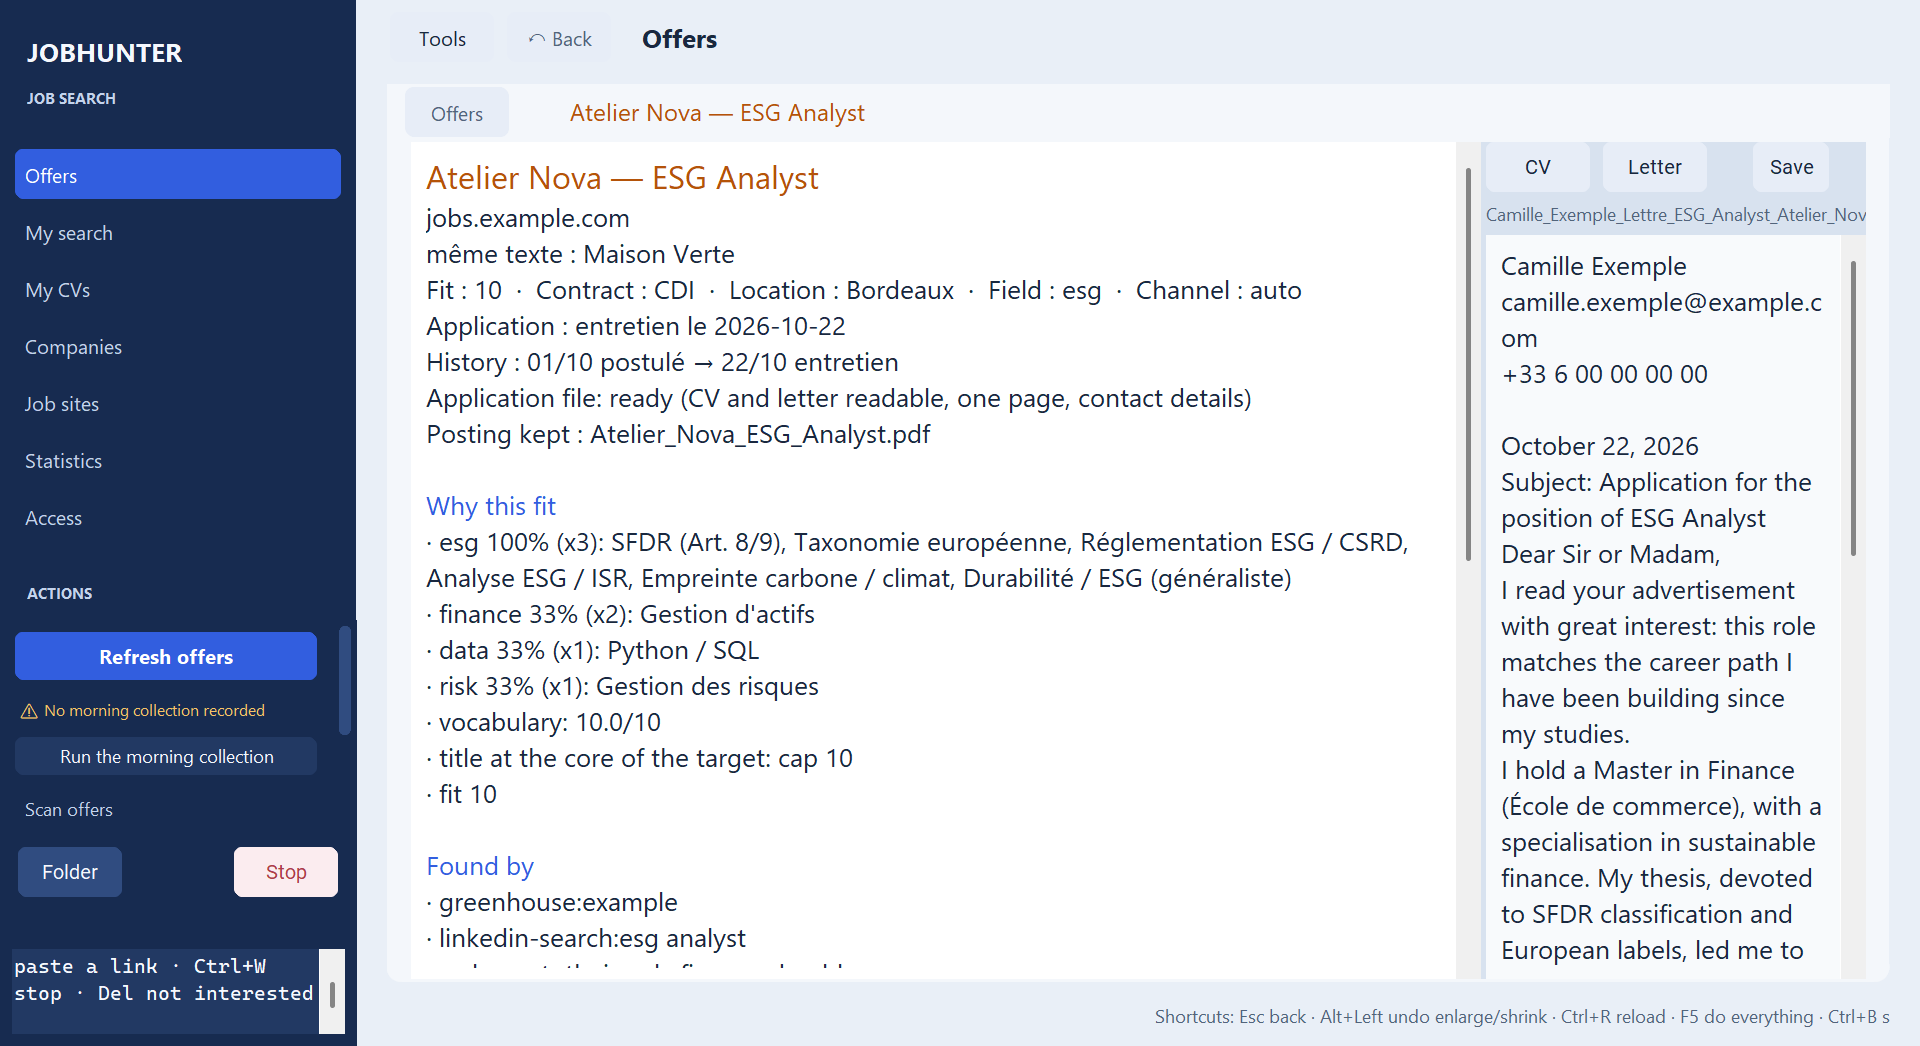
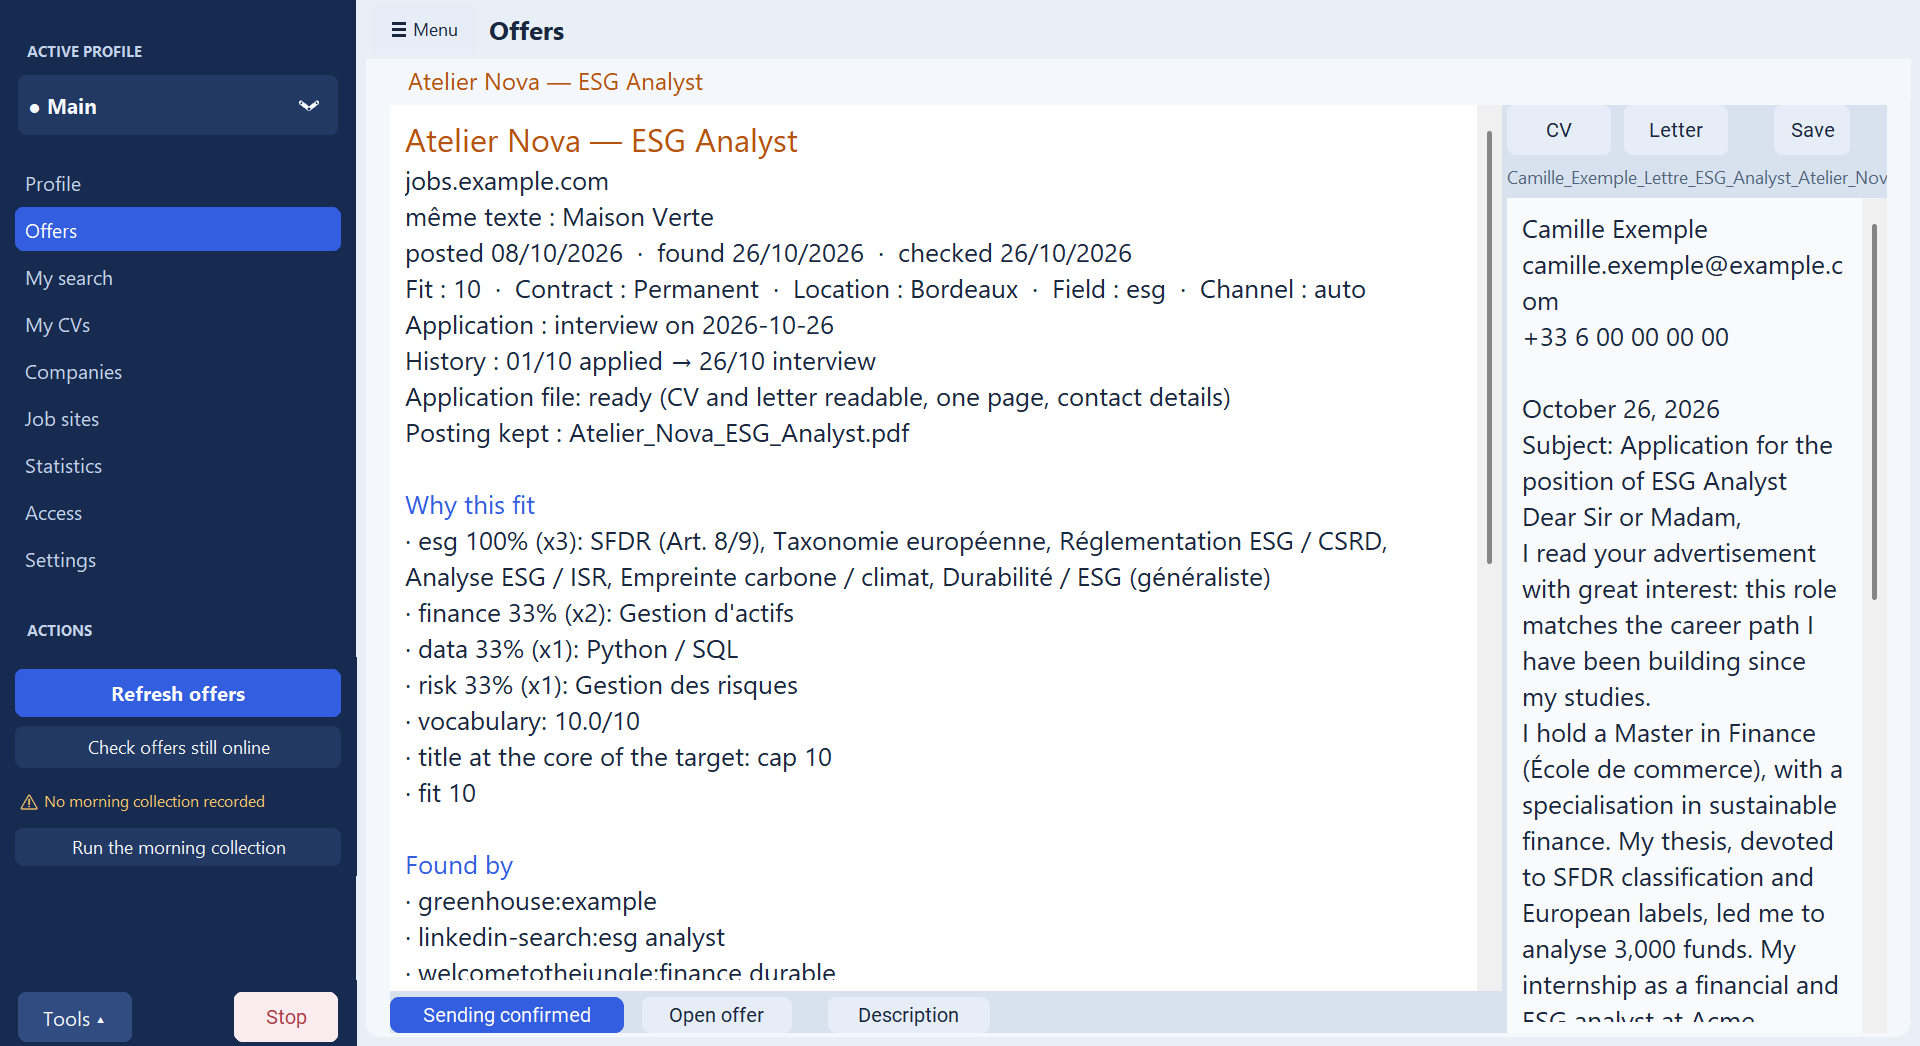
README: screenshots refreshed, the web interface shown in light and dark
tools/screenshots.py also captures the web interface: the page runs in
Playwright's headless Chromium and its calls go to the real Api on the same
fictitious folder, so nothing of the screen behind can be captured. The
desktop screenshots are rebuilt with the current app (3.27).

diff --git a/tools/screenshots.py b/tools/screenshots.py
@@ -9,7 +9,11 @@ chosen language and captures the window:
 
 - `offers.png`: the ranked offers, the first one selected (an application with its
   status history and its kept posting; one offer with a knock-out ⚠);
-- `letter.png`: an offer opened in full, its letter on the right.
+- `letter.png`: an offer opened in full, its letter on the right;
+- `web_home.png`, `web_offers_dark.png`: the web interface (3.27), its home screen in
+  light mode and its offers in dark mode. The page runs in Playwright's Chromium, its
+  calls answered by the real `jobhunter.web.api.Api` on the same fictitious folder:
+  nothing of the screen behind is captured.
 
 Nothing of the user's own data is read: the folder is created in a temporary
 directory and `JOBHUNTER_RACINE` points to it. Windows only (screen capture by PIL).
@@ -221,6 +225,52 @@ def capturer(racine: Path, langue: str, sortie: Path) -> None:
     root.destroy()
 
 
+# Stands in for pywebview: window.pywebview.api.<name>(...) goes to the Python Api.
+_PONT = """
+window.pywebview = { api: new Proxy({}, { get: (_, nom) => (...args) => window.__jh(nom, args) }) };
+"""
+
+
+def capturer_web(racine: Path, sortie: Path) -> None:
+    """The web interface's two screenshots, rendered headless (see the module's doc)."""
+    os.environ.update(JOBHUNTER_RACINE=str(racine))
+    os.environ.pop("JOBHUNTER_PRINCIPALE", None)
+    from playwright.sync_api import sync_playwright
+
+    from jobhunter.web.__main__ import STATIC
+    from jobhunter.web.api import Api
+
+    api = Api()
+
+    def pont(nom: str, args: list) -> object:
+        # JSON round trip: what pywebview would hand the page.
+        return json.loads(json.dumps(getattr(api, nom)(*args), default=str))
+
+    with sync_playwright() as p:
+        nav = p.chromium.launch()
+        page = nav.new_page(viewport={"width": 1440, "height": 900})
+        page.expose_function("__jh", pont)
+        page.add_init_script(_PONT)
+        page.goto((STATIC / "index.html").as_uri())
+        page.wait_for_timeout(1500)
+        # No see-through window here: the page paints its own background.
+        page.evaluate("document.body.classList.remove('natif')")
+
+        def photo(nom: str, mode: str, ecran: str) -> None:
+            page.evaluate(
+                f"(async () => {{ modeAffiche = '{mode}'; appliquerMode();"
+                f" await aller('{ecran}'); }})()"
+            )
+            page.wait_for_timeout(1200)
+            page.evaluate("window.scrollTo(0, 0)")  # a focused field may scroll it
+            page.screenshot(path=str(sortie / nom))
+            print("  ", sortie / nom)
+
+        photo("web_home.png", "clair", "accueil")
+        photo("web_offers_dark.png", "sombre", "offres")
+        nav.close()
+
+
 def main() -> int:
     a = argparse.ArgumentParser(description=__doc__.split("\n")[0])
     a.add_argument("--lang", default="en", help="interface language: en, fr, de, es")
@@ -237,6 +287,7 @@ def main() -> int:
         jobhunter(racine, "documents", "--top", "1")
         jobhunter(racine, "reposts")  # the Signal column: knock-outs
         jobhunter(racine, "postings")  # the posting kept for the application
+        capturer_web(racine, sortie)
         capturer(racine, args.lang, sortie)
     finally:
         if args.garder:

diff --git a/README.fr.md b/README.fr.md
@@ -28,8 +28,10 @@ jamais de candidature.
 | Les offres, triées pour ton profil | La lettre préparée pour une offre |
 |---|---|
 | ![Liste des offres](docs/screenshots/offers.png) | ![Une offre en entier et sa lettre](docs/screenshots/letter.png) |
+| **La nouvelle interface : l'accueil** | **…et les offres, en mode sombre** |
+| ![Accueil de la nouvelle interface](docs/screenshots/web_home.png) | ![Offres de la nouvelle interface en mode sombre](docs/screenshots/web_offers_dark.png) |
 
-<sub>Captures de l'interface en anglais, avec un profil et des entreprises **fictifs** (Camille Exemple, junior en finance durable — `profile/example_finance_esg.json`), refaites par `python tools/screenshots.py`. L'application parle **français**, anglais, allemand et espagnol : Paramètres → Langue de l'interface.</sub>
+<sub>Captures de l'application classique en anglais et de la [nouvelle interface](#la-nouvelle-interface-aperçu-depuis-le-code-source) (en français pour l'instant), avec un profil et des entreprises **fictifs** (Camille Exemple, junior en finance durable — `profile/example_finance_esg.json`), refaites par `python tools/screenshots.py`. L'application parle **français**, anglais, allemand et espagnol : Paramètres → Langue de l'interface.</sub>
 
 - [Pourquoi](#pourquoi-jobhunter) · [Comment ça marche](#comment-ça-marche) · [Sources](#sources)
 - [Installer (Windows)](#installer-windows) · [Depuis le code source](#depuis-le-code-source-windows) · [macOS / Linux](#macos--linux)

diff --git a/README.md b/README.md
@@ -27,8 +27,10 @@ short message for each one. It runs on your computer. It never sends an applicat
 | Offers, ranked for your profile | An offer in full: why it fits, where it was found, its letter |
 |---|---|
 | ![Offer list](docs/screenshots/offers.png) | ![Generated letter](docs/screenshots/letter.png) |
+| **The new interface: home** | **…and the offers, in dark mode** |
+| ![Home screen of the new interface](docs/screenshots/web_home.png) | ![Offers of the new interface in dark mode](docs/screenshots/web_offers_dark.png) |
 
-<sub>Screenshots of the English interface, with a **fictitious** profile and invented companies (Camille Exemple, junior in sustainable finance — `profile/example_finance_esg.json`). Rebuilt by `python tools/screenshots.py`. The app also speaks **French, German and Spanish**: Settings → Interface language.</sub>
+<sub>Screenshots of the classic app in English and of the [new interface](#the-new-interface-preview-from-source) (French only for now), with a **fictitious** profile and invented companies (Camille Exemple, junior in sustainable finance — `profile/example_finance_esg.json`). Rebuilt by `python tools/screenshots.py`. The app also speaks **French, German and Spanish**: Settings → Interface language.</sub>
 
 - [Why](#why-jobhunter) · [How it works](#how-it-works) · [Sources](#sources)
 - [Install (Windows)](#install-windows) · [From source](#from-source) · [macOS / Linux](#macos--linux)
